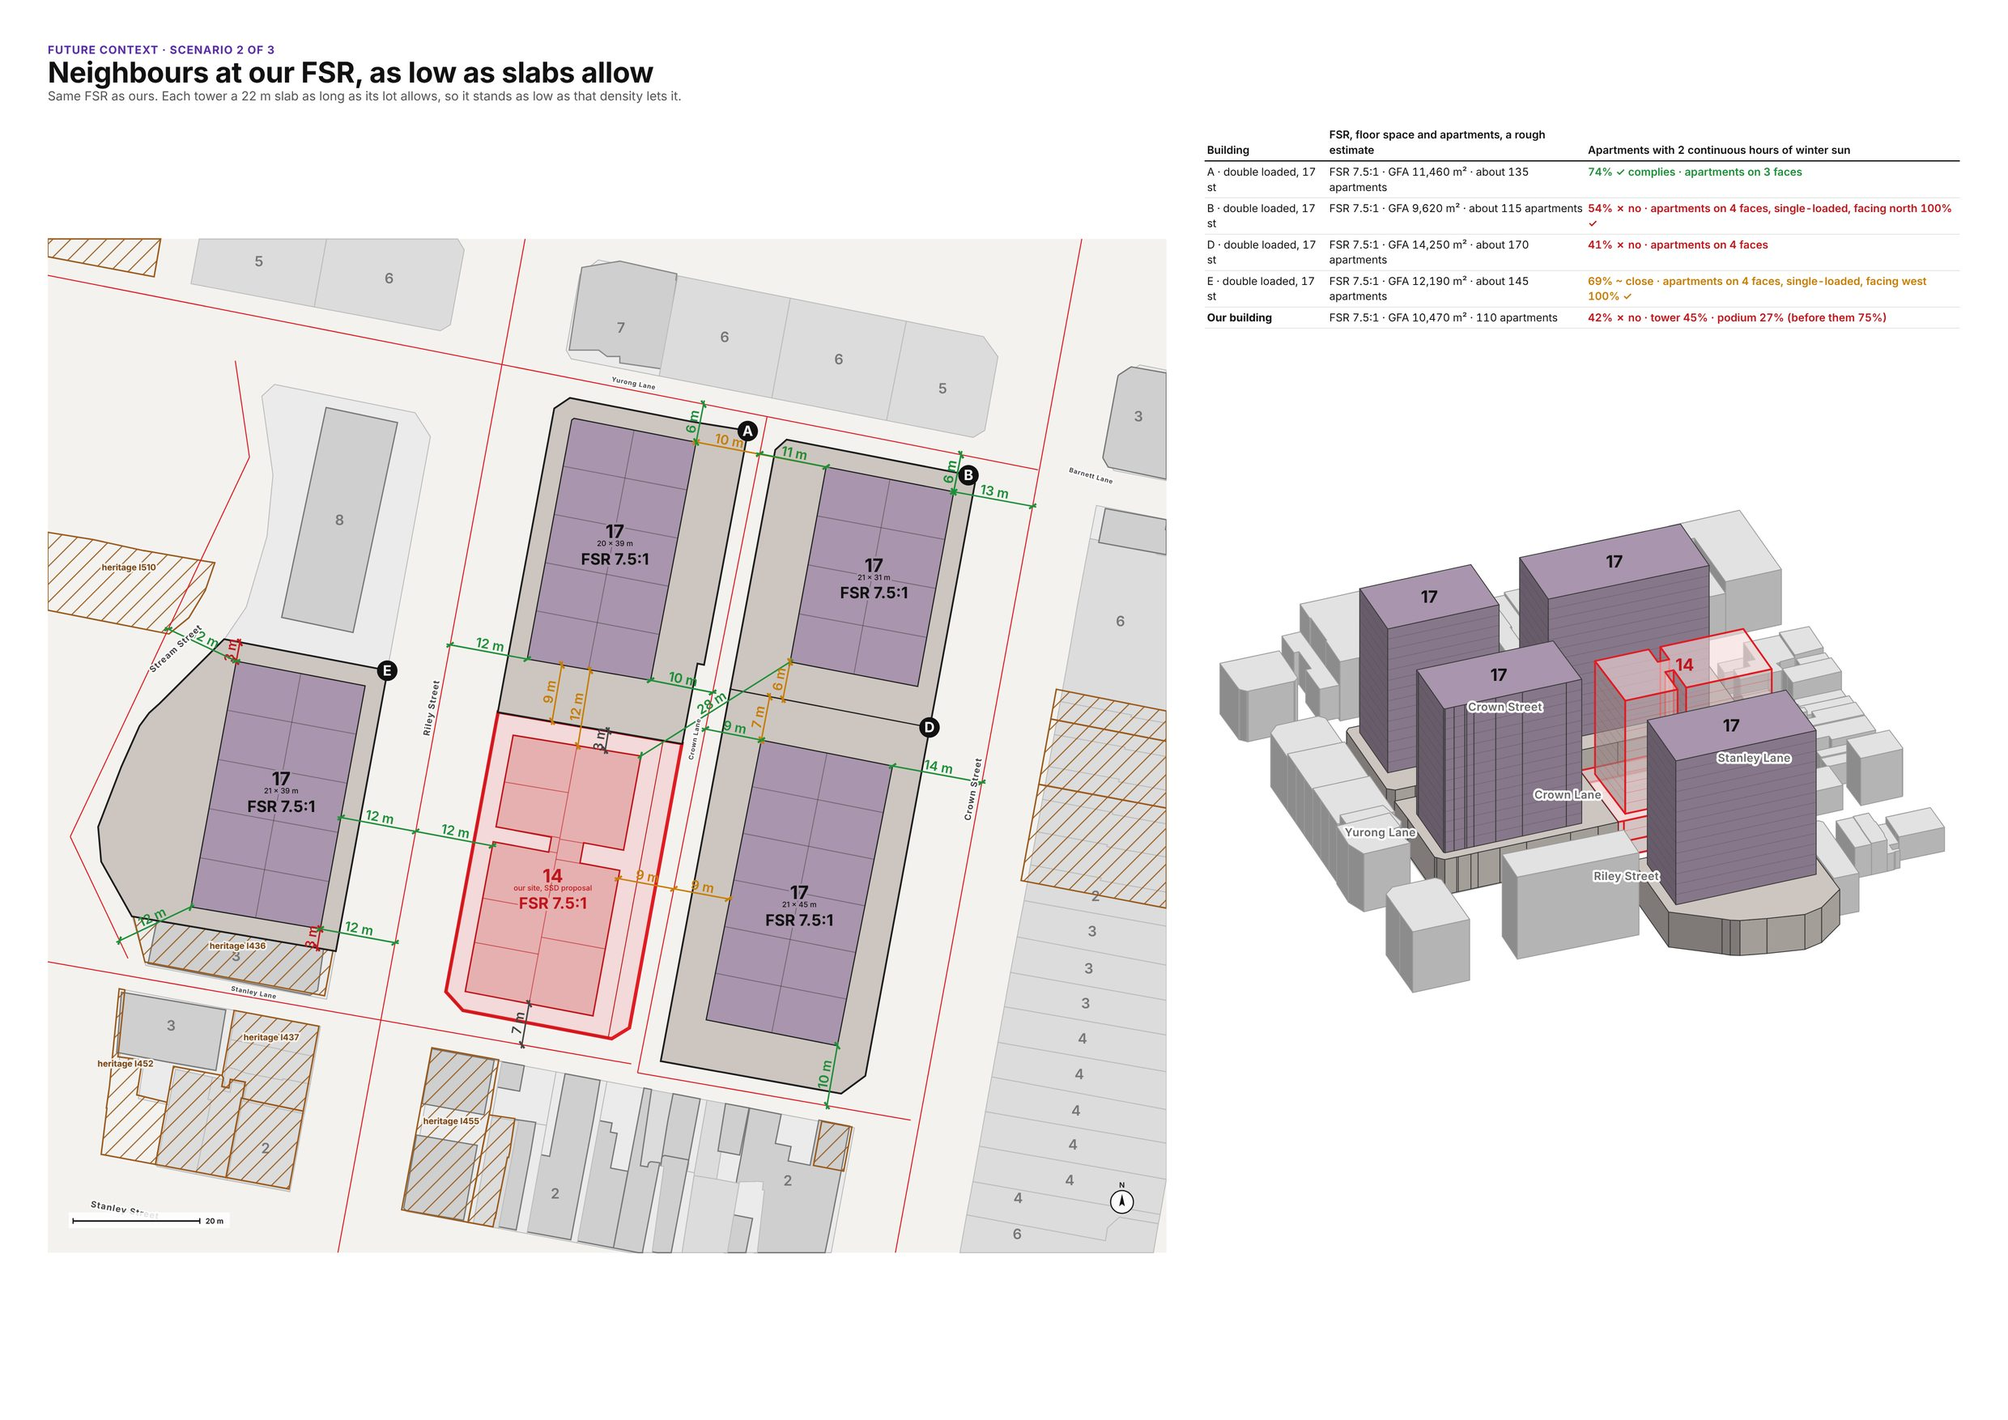
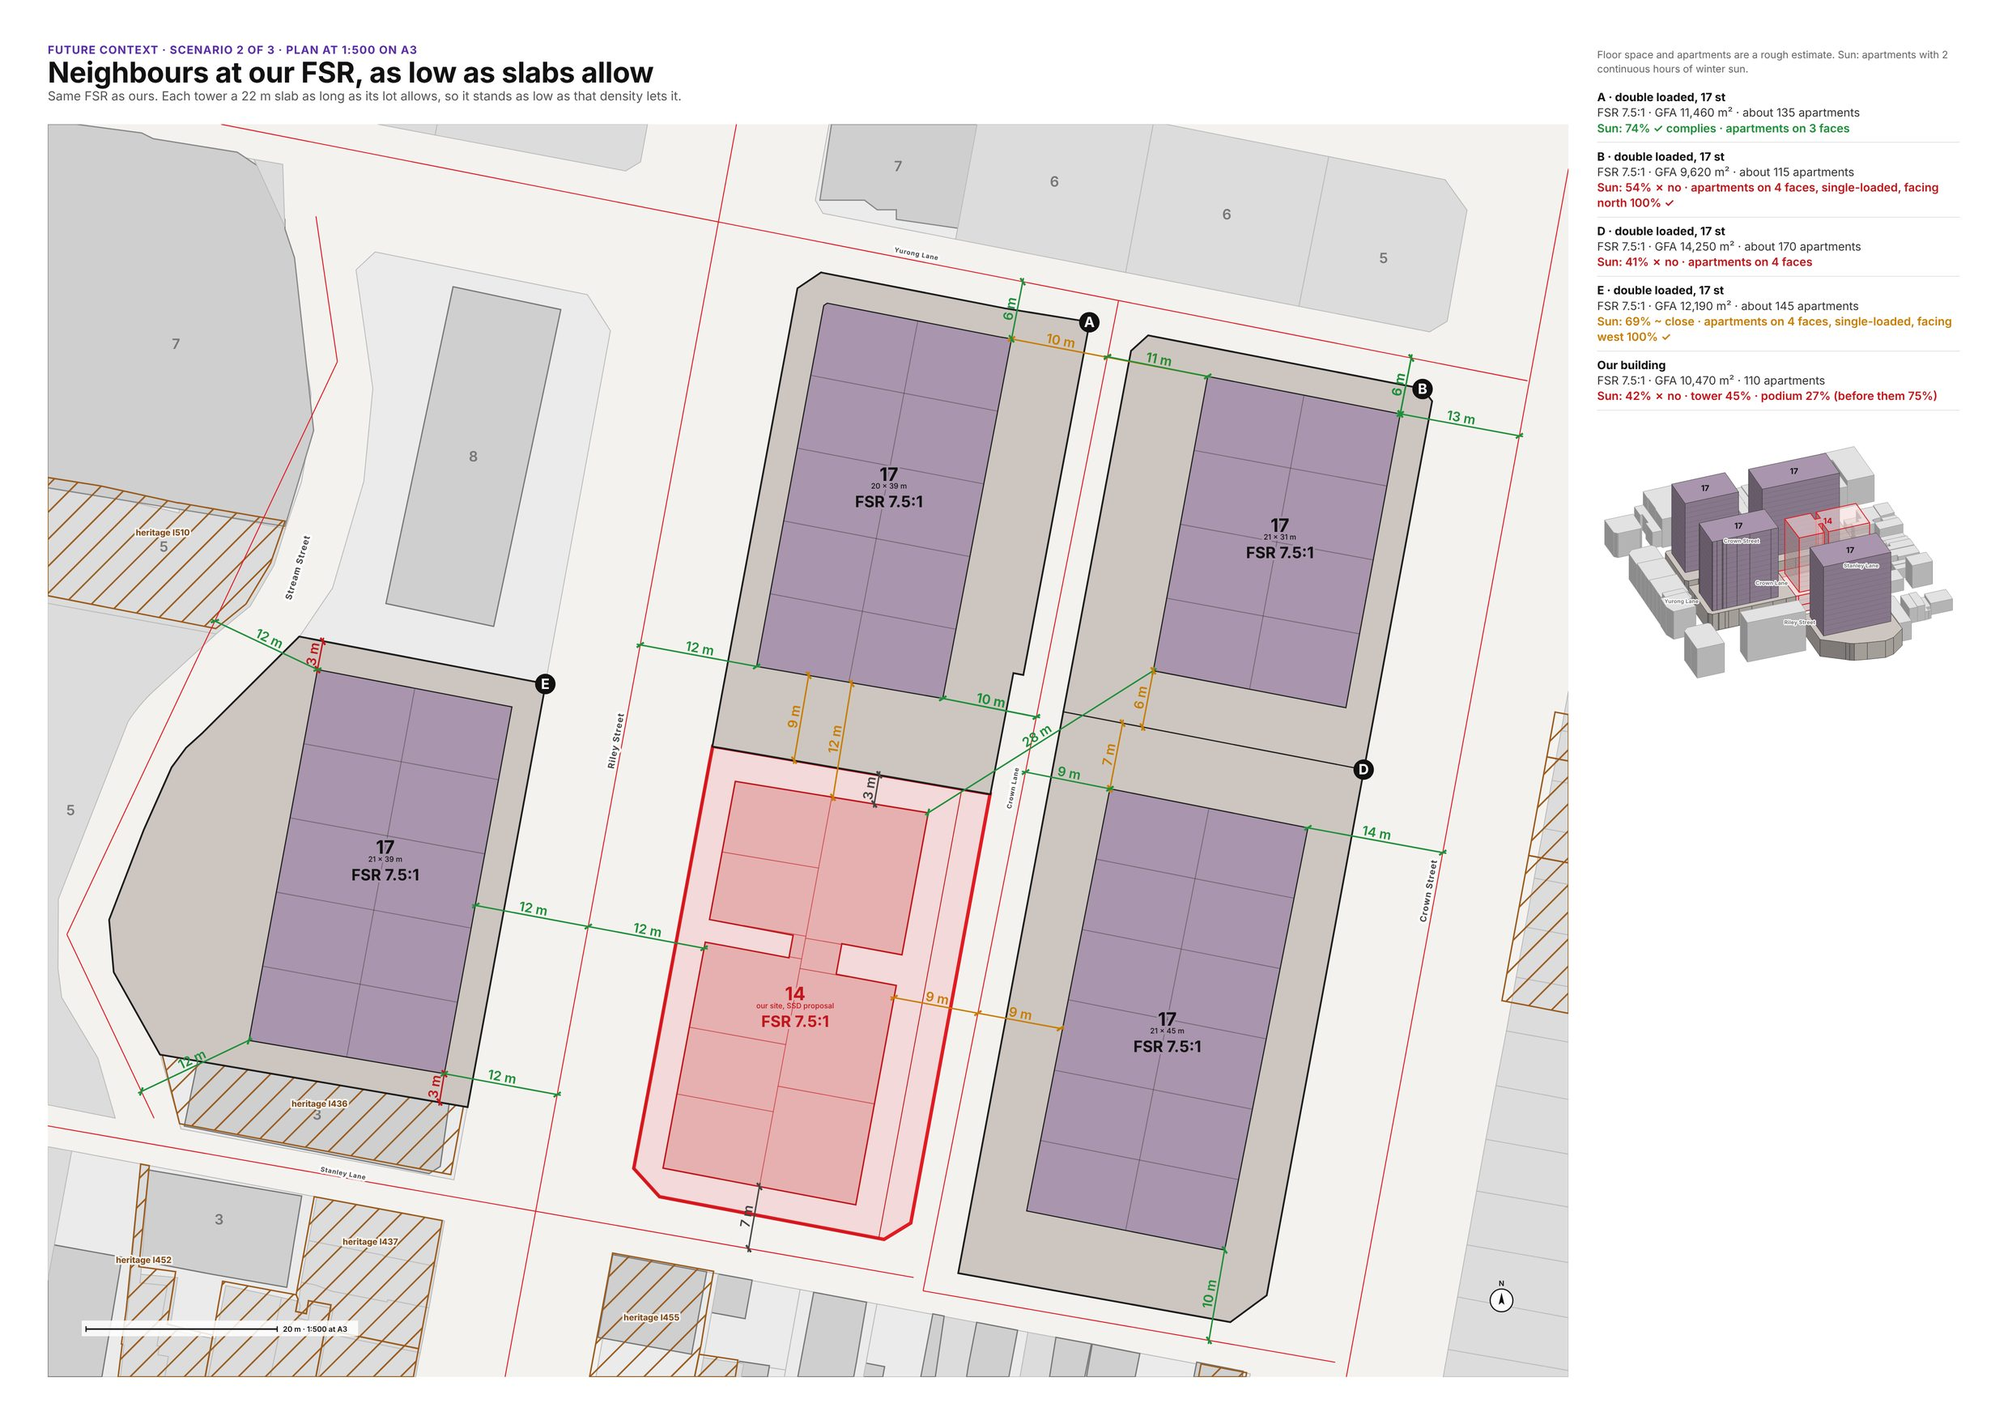
Future context: the option sheet's plan at 1:500 on a true A3 page
The plan on each scenario's sheet is drawn at 1:500 so it can be measured and
sketched over: its window holds every lot the scenario builds on and ours, out
to the middle of each road beside them, as tall as the sheet allows; the table
becomes a block a building in the column that is left, the massing under it.
Every PDF page is set to 420 x 297 mm (Chromium wrote them three times that),
so the scale holds in a viewer, on a print at 100 % and in a CAD import.
A deep plate's floor is drawn as a square grid of apartments.

Claude-Session: https://claude.ai/code/session_01VNRPaoqvXaWWnp37ybZcdp

diff --git a/scripts/future_context.ts b/scripts/future_context.ts
@@ -223,6 +223,19 @@ if (loriini && !args.includes('--no-sun')) {
   } catch (e: any) { log(`  WARN the sun study did not run: ${e?.message ?? e}`); }
 } else log('  no Loriini beside this repository (LORIINI unset): the sheets carry no sun study');
 const { width, height, pages, summary, options, sun: sunPages = 0, only: onlyPage = null, sunPages: sunList = [], deck = null } = JSON.parse(await readFile(join(out, 'future-page.json'), 'utf8')) as { width: number; height: number; pages: number; summary?: boolean | number; options?: boolean; sun?: number; only?: number | null; sunPages?: number[]; deck?: string | null };
+// The sheets are A3. Chromium writes each PDF at the page's pixel size taken as 96 to the inch, three times too
+// large, so each is set to 420 mm wide here: a plan drawn at a scale then measures true in any viewer, on a print at
+// 100 % and in a CAD or sketching import
+const A3_WIDTH_PT = (420 / 25.4) * 72;
+const sheet = async (name: string) => {
+  await printPage(join(out, `${name}.html`), { width, height }, { png: join(out, `${name}.png`), pdf: join(out, `${name}.pdf`) });
+  const doc = await PDFDocument.load(await readFile(join(out, `${name}.pdf`)));
+  for (const p of doc.getPages()) {
+    const k = A3_WIDTH_PT / p.getWidth();
+    p.scale(k, k);
+  }
+  await writeFile(join(out, `${name}.pdf`), await doc.save());
+};
 if (deck === 'two-sheet') {
   // `"deck": "two-sheet"` in the scenarios file: each scenario is two sheets, its geometry and its view from the sun,
   // bound in that order into future.pdf, and nothing else is printed; with --only, that scenario's pair alone
@@ -230,7 +243,7 @@ if (deck === 'two-sheet') {
   const names = which.flatMap((i) => [`future-option-${i}`, ...(sunList.includes(i) ? [`future-sun-${i}`] : [])]);
   const doc = await PDFDocument.create();
   for (const name of names) {
-    await printPage(join(out, `${name}.html`), { width, height }, { png: join(out, `${name}.png`), pdf: join(out, `${name}.pdf`) });
+    await sheet(name);
     const one = await PDFDocument.load(await readFile(join(out, `${name}.pdf`)));
     for (const p of await doc.copyPages(one, one.getPageIndices())) doc.addPage(p);
     log(`  printed ${name}`);
@@ -245,7 +258,7 @@ if (onlyPage != null) {
   // bound PDFs of the whole deck are left as they were
   const names = [`future-option-${onlyPage}`, `future-${onlyPage}`, ...sunList.map((i) => `future-sun-${i}`)];
   for (const name of names) {
-    await printPage(join(out, `${name}.html`), { width, height }, { png: join(out, `${name}.png`), pdf: join(out, `${name}.pdf`) });
+    await sheet(name);
     log(`  printed ${name}`);
   }
   console.log(names.flatMap((n) => [join(out, `${n}.png`), join(out, `${n}.pdf`)]).join('\n'));
@@ -255,7 +268,7 @@ if (onlyPage != null) {
 // sheets in full (the plan at 1:500, the massing, the yield, the assumptions); future-sun.pdf: the sun's proof for
 // our own apartments, a sheet a scenario
 const print = async (name: string, into: PDFDocument) => {
-  await printPage(join(out, `${name}.html`), { width, height }, { png: join(out, `${name}.png`), pdf: join(out, `${name}.pdf`) });
+  await sheet(name);
   const one = await PDFDocument.load(await readFile(join(out, `${name}.pdf`)));
   for (const p of await into.copyPages(one, one.getPageIndices())) into.addPage(p);
   log(`  printed ${name}`);

diff --git a/scripts/capacity_study/future_context.py b/scripts/capacity_study/future_context.py
@@ -1913,17 +1913,47 @@ def context_buildings(reach):
     return [(r['poly'], storeys_of(r), measured(r), pid) for pid, r in PROPS.items() if pid not in skip and measured(r) and r['poly'].intersects(study.buffer(reach))]
 
 
-def mini_plan(parcels, blds, existing, RET, sep, k=1.0, big=False, bset=None):
+OPTION_SCALE = 500      # the option sheet's plan, 1:500 on the A3 sheet, so it can be measured and drawn over
+OPLAN_MM = (10, 26, 330, 262)   # its left and top on the sheet, the widest it may be, and its height
+
+
+def scaled_window(parcels):
+    """The window of the option sheet's plan at 1:OPTION_SCALE: every lot the scenario builds on and ours, out to the
+    middle of each road beside them, as tall as the sheet allows and no wider than it allows; (x0, y0, x1, y1)."""
+    content = unary_union([q['poly'] for q in parcels] + [SITE_POLY])
+    bx0, by0, bx1, by1 = content.bounds
+    axes = [ax for lines in road_axes().values() for ax in lines]
+    reach = 14
+    def grown(sideways):                                              # the roads' middles beside the lots, that way only
+        frame = Polygon([(bx0 - reach, by0), (bx1 + reach, by0), (bx1 + reach, by1), (bx0 - reach, by1)]) if sideways else \
+            Polygon([(bx0, by0 - reach), (bx1, by0 - reach), (bx1, by1 + reach), (bx0, by1 + reach)])
+        def beside(ax):                                               # a road that runs along that side, not across it
+            (ax0, ay0), (ax1, ay1) = ax.coords[0], ax.coords[-1]
+            return (abs(ay1 - ay0) > abs(ax1 - ax0)) == sideways
+        bits = [ax.intersection(frame) for ax in axes if beside(ax) and ax.intersects(frame) and ax.distance(content) < reach]
+        return unary_union([content] + [b for b in bits if not b.is_empty]).bounds
+    gx, gy = grown(True), grown(False)
+    per_mm = OPTION_SCALE / 1000
+    w = min(OPLAN_MM[2] * per_mm, max(gx[2] - gx[0] + 4, 90))
+    h = OPLAN_MM[3] * per_mm
+    cx, cy = (gx[0] + gx[2]) / 2, (gy[1] + gy[3]) / 2
+    return cx - w / 2, cy - h / 2, cx + w / 2, cy + h / 2
+
+
+def mini_plan(parcels, blds, existing, RET, sep, k=1.0, big=False, bset=None, window=None):
     """The scenario's plan as colour blocks alone, with the blocks round it: no aerial, no names, the separations
     drawn with their metres, every standing building with its storeys. `k` scales the text and lines (1 for the
-    summary's small plans, less for a sheet's); `big` adds the street names, the plates, a scale bar and north."""
+    summary's small plans, less for a sheet's); `big` adds the street names, the plates, a scale bar and north;
+    `window` (x0, y0, x1, y1) draws that window and no other, for a plan set on its sheet at a scale."""
     x0, y0, x1, y1 = WX0 - MINI_PAD, WY0 - MINI_PAD, WX1 + MINI_PAD, WY1 + MINI_PAD
     if parcels:                                                       # a scenario that builds beyond the study blocks
         bx = unary_union([q['poly'] for q in parcels]).bounds
         x0, y0, x1, y1 = min(x0, bx[0] - 8), min(y0, bx[1] - 8), max(x1, bx[2] + 8), max(y1, bx[3] + 8)
+    if window:
+        x0, y0, x1, y1 = window
     box = Polygon([(x0, y0), (x1, y0), (x1, y1), (x0, y1)])
     o = [f'<svg viewBox="{f(x0)} {f(-y1)} {f(x1 - x0)} {f(y1 - y0)}" xmlns="http://www.w3.org/2000/svg" style="overflow:hidden"><rect x="{f(x0)}" y="{f(-y1)}" width="{f(x1 - x0)}" height="{f(y1 - y0)}" fill="#f4f2ef"/>']
-    for g, n, h, pid in context_buildings(MINI_PAD + 20):
+    for g, n, h, pid in context_buildings(max(MINI_PAD + 20, max(Point(c).distance(study) for c in box.exterior.coords) + 5)):
         if not g.intersects(box):
             continue
         g = g.intersection(box)
@@ -2044,9 +2074,10 @@ def mini_plan(parcels, blds, existing, RET, sep, k=1.0, big=False, bset=None):
         o += label_roads(box, k * 1.6, beside=True)
         L = 20
         bx0, by0 = x0 + 4, y0 + 5
-        o.append(f'<g transform="translate({f(bx0)} {f(-by0)})"><rect x="{-1.5 * k:.2f}" y="{-3 * k:.2f}" width="{L + 12 * k:.2f}" height="{5.5 * k:.2f}" fill="#fff" fill-opacity=".85"/>'
+        note = f'20 m · 1:{OPTION_SCALE} at A3' if window else '20 m'
+        o.append(f'<g transform="translate({f(bx0)} {f(-by0)})"><rect x="{-1.5 * k:.2f}" y="{-3 * k:.2f}" width="{L + (2 + 1.55 * len(note)) * k:.2f}" height="{5.5 * k:.2f}" fill="#fff" fill-opacity=".85"/>'
                  f'<line x1="0" y1="0" x2="{L}" y2="0" stroke="#111" stroke-width="{0.5 * k:.2f}"/><line x1="0" y1="{-1 * k:.2f}" x2="0" y2="{1 * k:.2f}" stroke="#111" stroke-width="{0.4 * k:.2f}"/>'
-                 f'<line x1="{L}" y1="{-1 * k:.2f}" x2="{L}" y2="{1 * k:.2f}" stroke="#111" stroke-width="{0.4 * k:.2f}"/><text x="{L + 2 * k:.2f}" y="{0.9 * k:.2f}" font-size="{2.6 * k:.2f}" font-weight="600" fill="#111">20 m</text></g>')
+                 f'<line x1="{L}" y1="{-1 * k:.2f}" x2="{L}" y2="{1 * k:.2f}" stroke="#111" stroke-width="{0.4 * k:.2f}"/><text x="{L + 2 * k:.2f}" y="{0.9 * k:.2f}" font-size="{2.6 * k:.2f}" font-weight="600" fill="#111">{note}</text></g>')
         o.append(f'<g transform="translate({f(x1 - 7)} {f(-(y0 + 8))})"><circle r="{4 * k:.2f}" fill="#fff" fill-opacity=".9" stroke="#111" stroke-width="{0.4 * k:.2f}"/><path d="M0 {-2.8 * k:.2f} L{1 * k:.2f} {1.5 * k:.2f} L0 {0.7 * k:.2f} L{-1 * k:.2f} {1.5 * k:.2f} Z" fill="#111"/><text y="{-5 * k:.2f}" font-size="{2.6 * k:.2f}" font-weight="600" text-anchor="middle" fill="#111">N</text></g>')
     o.append('</svg>')
     return ''.join(o)
@@ -2066,18 +2097,33 @@ def option_page(r):
     for name, with_, without, loss in r.get('shaded', []):
         mark, vcol = apts_verdict(dict(share=with_, dark=0))
         trs += f'<tr><td>{H.escape(name)}</td><td style="color:#888">—</td>{cell(f"{with_:.0%} {mark}" + (f" · {without:.0%} without our tower, {loss * 100:.0f} points" if without is not None else ""), vcol)}</tr>'
-    css = (f'.oh{{position:absolute;left:{mm(10)};top:{mm(9)};width:{mm(400)}}} .oh h1{{margin:0}}'
-           f'.oplan{{position:absolute;left:{mm(10)};top:{mm(26)};width:{mm(234)};height:{mm(260)}}} .oplan svg{{width:100%;height:100%}}'
-           f'.ocol{{position:absolute;left:{mm(252)};top:{mm(26)};width:{mm(158)};font-size:{pt(7.2)};line-height:1.4}}'
+    pw, ph = r['plan_mm']
+    cx = OPLAN_MM[0] + pw + 6                                         # the column beside the plan
+    cw = 410 - cx
+    narrow = cw < 120
+    vb = re.search(r'viewBox="([-\d. ]+)"', r['axo'])
+    aw, ah = (float(v) for v in vb.group(1).split()[2:]) if vb else (3.0, 2.0)
+    css = (f'.oh{{position:absolute;left:{mm(10)};top:{mm(9)};width:{mm(pw)}}} .oh h1{{margin:0}}'
+           f'.oplan{{position:absolute;left:{mm(OPLAN_MM[0])};top:{mm(OPLAN_MM[1])};width:{mm(pw)};height:{mm(ph)}}} .oplan svg{{display:block;width:100%;height:100%}}'
+           f'.ocol{{position:absolute;left:{mm(cx)};top:{mm(10 if narrow else OPLAN_MM[1])};width:{mm(cw)};font-size:{pt(7.2)};line-height:1.4}}'
            f'.ocol .u{{font-size:{pt(8)};margin-bottom:{mm(2)}}}'
            f'.ocol table{{font-size:{pt(6.4)}}} .ocol td{{padding:{mm(.6)} {mm(.5)}}} .ocol th{{padding:{mm(.6)} {mm(.5)}}}'
-           f'.oaxo{{width:{mm(158)};height:{mm(165)};margin-top:{mm(6)}}} .oaxo svg{{position:static;width:100%;height:100%}}')
-    head = (f'<div class="oh"><div class="kick">Future context · Scenario {r["no"]} of {LAST}</div><h1>{H.escape(r["title"])}</h1>'
+           f'.ob{{border-bottom:{mm(.15)} solid #ccc;padding:{mm(1.3)} 0;font-size:{pt(6.8)};line-height:1.35}} .ob:first-of-type{{border-top:{mm(.3)} solid #111}}'
+           f'.obn{{font-weight:700}} .oby{{color:#333}} .obs{{font-weight:600}} .obc{{font-size:{pt(6)};color:#666;margin-bottom:{mm(1.5)}}}'
+           f'.oaxo{{width:{mm(cw)};height:{mm(cw * ah / aw)};margin-top:{mm(6)}}} .oaxo svg{{position:static;display:block;width:100%;height:100%}}')
+    head = (f'<div class="oh"><div class="kick">Future context · Scenario {r["no"]} of {LAST} · plan at 1:{OPTION_SCALE} on A3</div><h1>{H.escape(r["title"])}</h1>'
             f'<div class="hor">{H.escape(r["horizon"])}</div></div>')
     warn = ''.join(f'<div class="u" style="color:#c0161c"><b>Site {H.escape(k_)} takes {H.escape(addr)}, heritage item {H.escape(item)}: it cannot be redeveloped.</b></div>' for k_, addr, item in r.get('heritage', []))
-    col = (f'<div class="ocol">{warn}'
-           f'<table><tr><th>Building</th><th>FSR, floor space and apartments, a rough estimate</th><th>Apartments with 2 continuous hours of winter sun</th></tr>{trs}</table>'
-           f'<div class="oaxo">{r["axo"]}</div></div>')
+    if narrow:
+        # beside a wide plan the table is a block a building: its name, its floor space, its sun
+        rows = [(H.escape(b['name']), b.get('yld', ''), b['sun'] if b['sun'] else ('—', '')) for b in r['buildings']]
+        if r['ours']:
+            rows.append(('Our building', r.get('ours_yield', ''), r['ours']))
+        table = ('<div class="obc">Floor space and apartments are a rough estimate. Sun: apartments with 2 continuous hours of winter sun.</div>'
+                 + ''.join(f'<div class="ob"><div class="obn">{n_}</div><div class="oby">{y_}</div><div class="obs" style="color:{VERDICT_COLOUR.get(sc_, "#111")}">Sun: {st_}</div></div>' for n_, y_, (st_, sc_) in rows))
+    else:
+        table = f'<table><tr><th>Building</th><th>FSR, floor space and apartments, a rough estimate</th><th>Apartments with 2 continuous hours of winter sun</th></tr>{trs}</table>'
+    col = f'<div class="ocol">{warn}{table}<div class="oaxo">{r["axo"]}</div></div>'
     return (f'<!doctype html><html><head><meta charset="utf-8"><title>Future context · Scenario {r["no"]}</title><style>{CSS}{css}</style></head><body>'
             f'{head}<div class="oplan">{r["big"]}</div>{col}</body></html>')
 
@@ -2477,9 +2523,11 @@ def page(no, scn):
             a_, gap_, c_ = g['parts']
             b['parts'] = '+'.join(f'{x:.0f}' for x in ((a_, gap_, c_) if gap_ >= 0.3 else (a_, c_)))
     oy = site_yield()
-    SUMMARY.append(dict(heritage=HERITAGE_HITS.get(scn['title'], []), ours_yield=yield_text(oy[0], oy[1], oy[2], about=oy[2] != SITE_UNITS), no=no, title=scn['title'], horizon=scn.get('horizon', ''), lead=fill_in(scn['lead'], parcels, units), units=units, buildings=buildings, ours=ours,
+    win = scaled_window(parcels)
+    k_plan = 0.45 * OPTION_SCALE / 755                              # the text and lines as large on paper as they were
+    SUMMARY.append(dict(plan_mm=((win[2] - win[0]) * 1000 / OPTION_SCALE, (win[3] - win[1]) * 1000 / OPTION_SCALE), heritage=HERITAGE_HITS.get(scn['title'], []), ours_yield=yield_text(oy[0], oy[1], oy[2], about=oy[2] != SITE_UNITS), no=no, title=scn['title'], horizon=scn.get('horizon', ''), lead=fill_in(scn['lead'], parcels, units), units=units, buildings=buildings, ours=ours,
                         allow=allow, allow_colour=['#1f8f3a', '#c77d00', '#c0161c'][worst], failing=sun_failing, shaded=sun_shaded,
-                        mini=mini_plan(parcels, blds, existing, RET, sep), big=mini_plan(parcels, blds, existing, RET, sep, k=0.45, big=True, bset=bset),
+                        mini=mini_plan(parcels, blds, existing, RET, sep), big=mini_plan(parcels, blds, existing, RET, sep, k=k_plan, big=True, bset=bset, window=win),
                         axo=axo(scn, parcels, blds, existing, RET), sun=sun, scn=scn))
     return f'''<!doctype html><html><head><meta charset="utf-8"><title>Future context · Scenario {no}</title><style>{CSS}</style></head><body>
 <div class="txt"><div class="kick">Future context · Scenario {no} of {LAST}</div><h1>{H.escape(scn["title"])}</h1><div class="hor">{H.escape(scn["horizon"])}</div>

diff --git a/README.md b/README.md
@@ -1951,15 +1951,19 @@ of them with their mid-winter sun, the separations and setbacks drawn and
 coloured on the plan, with a line on whether the site's massing lets the
 neighbours develop; the site's FSR is written on its lot)
 followed by a sheet for each scenario in the same form
-(`future-option-<n>.png`: the plan large, the table and the massing, no
-running text);
+(`future-option-<n>.png`: the plan at 1:500 on the A3 sheet, so it can be
+measured and drawn over, the table and the massing, no running text; the
+plan's window holds every lot the scenario builds on and the site's, out to
+the middle of each road beside them);
 `future-detail.pdf`, the sheets in full (`future-<n>.png`: the plan at 1:500
 on the aerial, the massing, the yield, the assumptions); and, where the
 scenarios file lays the site's apartments out, `future-sun.pdf`, the sun's
 proof for them (`future-sun-<n>.png`, below). `--redraw` draws again from
 what was fetched, and `--only <n>` (a scenario's number, or `last`) draws
 that scenario's sheets alone, in seconds, leaving the bound PDFs as they
-were.
+were. Every PDF page is a true A3 (420 × 297 mm), so a plan at a scale
+measures true in a viewer, on a print at 100 % and in a CAD or sketching
+import; the PNGs are the same sheet at 300 dpi.
 `examples/capacity_study/` holds the sheets for 70-76 Riley Street with
 their scenarios file.
 
